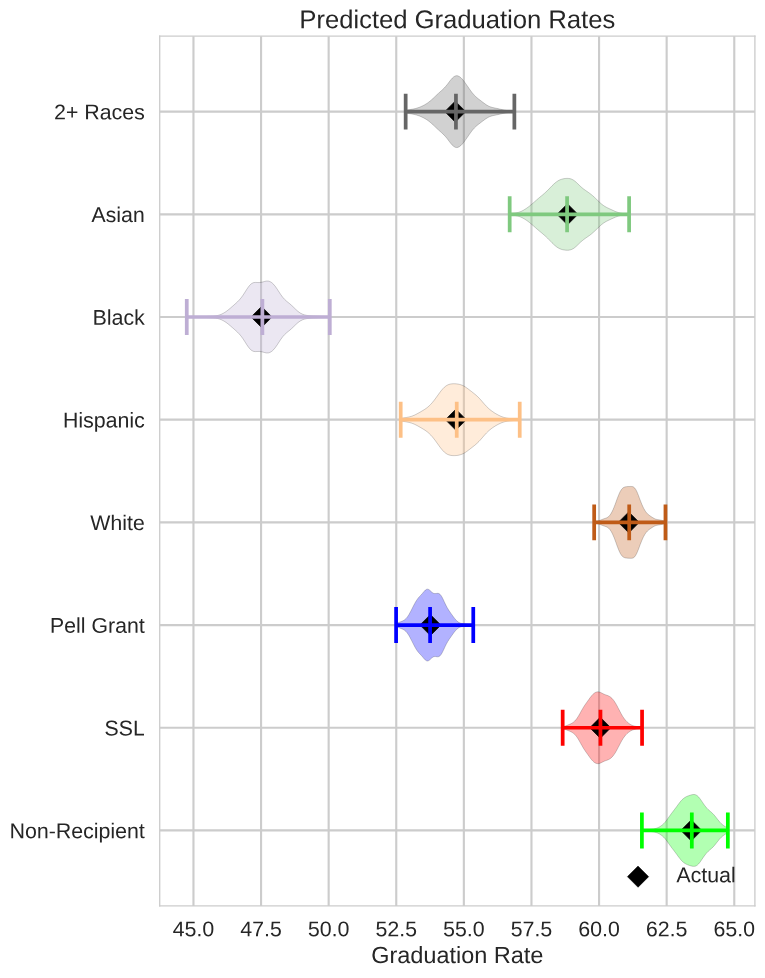
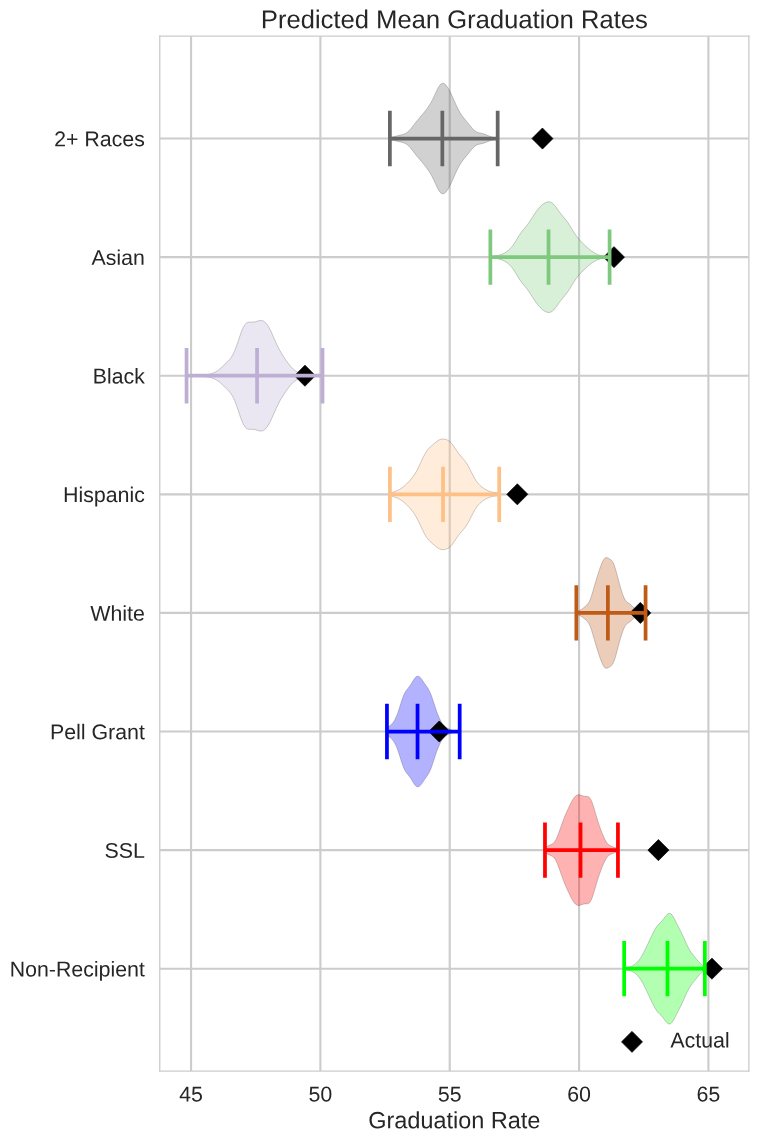
mean graduation rate distribution graph changed

diff --git a/src/mcmc.py b/src/mcmc.py
@@ -173,7 +173,7 @@ class McmcRegressor(Regressor):
 
         # Plot the actual mean graduation rate
         idx = np.argwhere(self.dataset.target_labels == target_label)[0][0]
-        ax.scatter(self.dataset.Y_train[:, idx].mean(), pos,
+        ax.scatter(self.dataset.Y_test[:, idx].mean(), pos,
                    marker='D', label='Actual', color='black')
 
         target_color = self.dataset.target_colors[target_label]
@@ -186,16 +186,17 @@ class McmcRegressor(Regressor):
         parts['cmins'].set_color(target_color)
         parts['cmaxes'].set_color(target_color)
 
-    def plot_rate_distributions(self, samples=500, size=50):
+    def plot_rate_distributions(self, samples=500, size=50, scale=1.0):
         fig = plt.figure(figsize=(8, 12))
         ax = fig.add_subplot(111)
         n_targets = self.dataset.n_targets
         pos = range(-1, -n_targets-1, -1)
+        pos = [scale*p for p in pos]
         for target_label, p in zip(self.dataset.target_labels, pos):
             self.plot_rate_distribution(target_label, ax, pos=p,
                                         samples=samples, size=size)
 
-        ax.set_title('Predicted Graduation Rates')
+        ax.set_title('Predicted Mean Graduation Rates')
         ax.set_xlabel('Graduation Rate')
         ax.set_yticks(pos)
         ax.set_yticklabels([la for la in self.dataset.target_labels])
@@ -205,7 +206,7 @@ class McmcRegressor(Regressor):
 
 if __name__ == "__main__":
 
-    build_model = True
+    build_model = False
 
     mdf = pd.read_csv('data/ipeds_2017_cats_eda.csv')
 
@@ -254,10 +255,11 @@ if __name__ == "__main__":
         formstr = "  train RMSE: {:.2f}; test RMSE: {:.2f}"
         print(formstr.format(train_rmse[i], test_rmse[i]))
 
-    # Generate distribution of coefficients for each target
-    mcmc.plot_coeff_distributions()
-    plt.show()
+    # # Generate distribution of coefficients for each target
+    # mcmc.plot_coeff_distributions()
+    # plt.show()
 
     # Generate distributions of graduation rates for each target
-    mcmc.plot_rate_distributions()
+    mcmc.plot_rate_distributions(samples=500, size=50, scale=0.75)
+    plt.tight_layout()
     plt.show()
